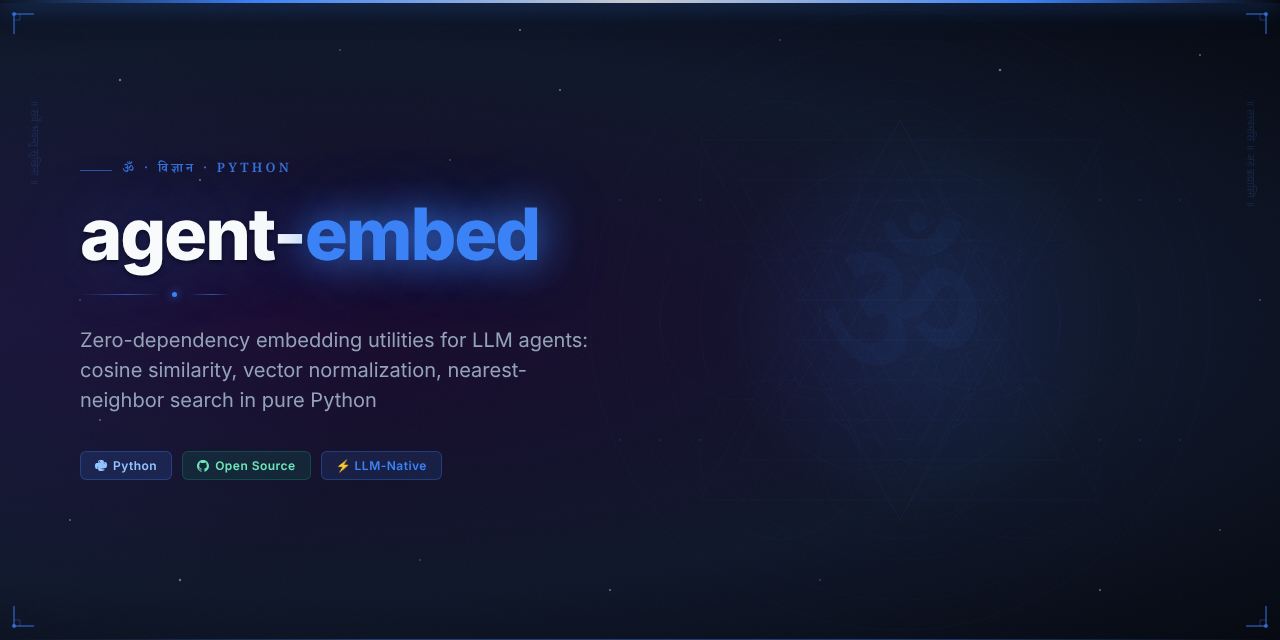
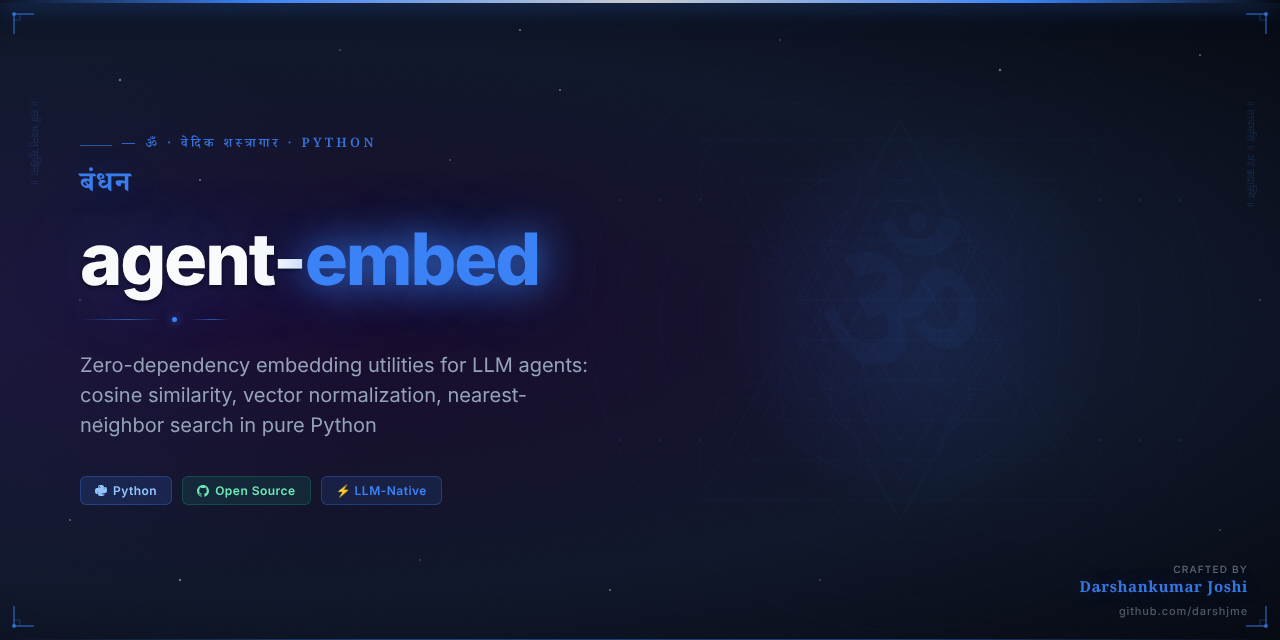
feat: add Vedic Arsenal hero image and updated README
Part of darshjme/arsenal — 100 production-grade Python libraries for LLM agents.
Vedic branding: ancient philosophy meets modern AI engineering.

diff --git a/README.md b/README.md
@@ -1,10 +1,12 @@
 <div align="center">
 
-<img src="assets/agent-embed-hero.png" alt="agent-embed — Vedic Arsenal" width="100%" />
+<img src="assets/agent-embed-hero.png" alt="agent-embed — Vedic Arsenal by Darshankumar Joshi" width="100%" />
 
 # 🌊 agent-embed
 
-### *बंधन* — Bandhan — the binding thread of semantic similarity
+<h3><em>बंधन</em></h3>
+
+> *Bandhan — the binding thread of semantic similarity*
 
 **Zero-dependency embedding utilities for LLM agents: cosine similarity, vector normalization, nearest-neighbor search in pure Python**
 
@@ -39,6 +41,19 @@ Or clone directly:
 git clone https://github.com/darshjme/agent-embed.git
 cd agent-embed
 pip install -e .
+```
+
+## How It Works
+
+```mermaid
+flowchart LR
+    A[Input] --> B[agent-embed]
+    B --> C{Process}
+    C -- Success --> D[Output]
+    C -- Error --> E[Handle / Retry]
+    E --> B
+    style B fill:#6b21a8,color:#fff
+    note["Embed — Zero Dependencies"]
 ```
 
 ## Quick Start
@@ -90,7 +105,7 @@ MIT — use freely, build freely.
 
 <div align="center">
 
-**Built with 🌊 by [Darshankumar Joshi](https://github.com/darshjme)**
+**Built with 🌊 by [Darshankumar Joshi](https://github.com/darshjme)** · [@thedarshanjoshi](https://twitter.com/thedarshanjoshi)
 
 *"कर्मण्येवाधिकारस्ते मा फलेषु कदाचन"*
 *Your right is to action alone, never to the fruits thereof.*
